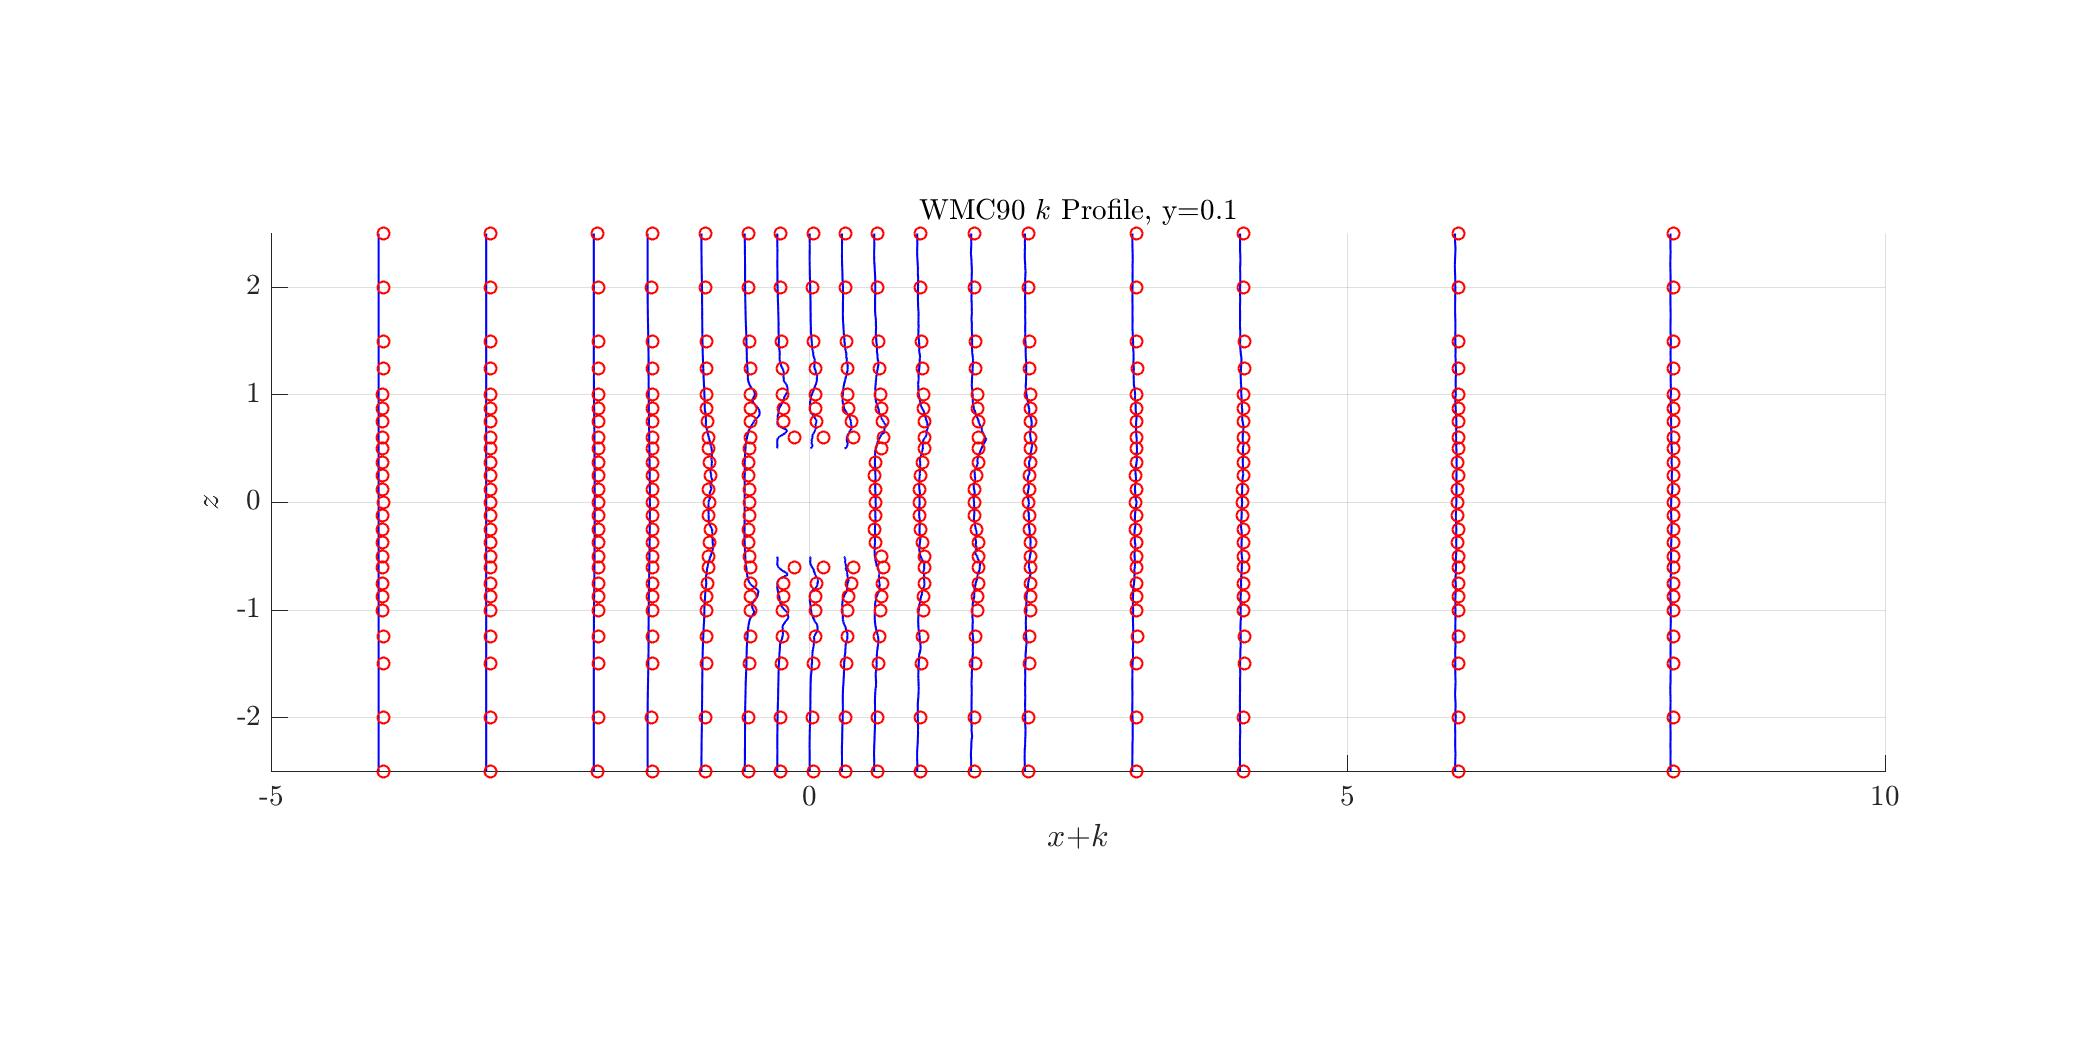
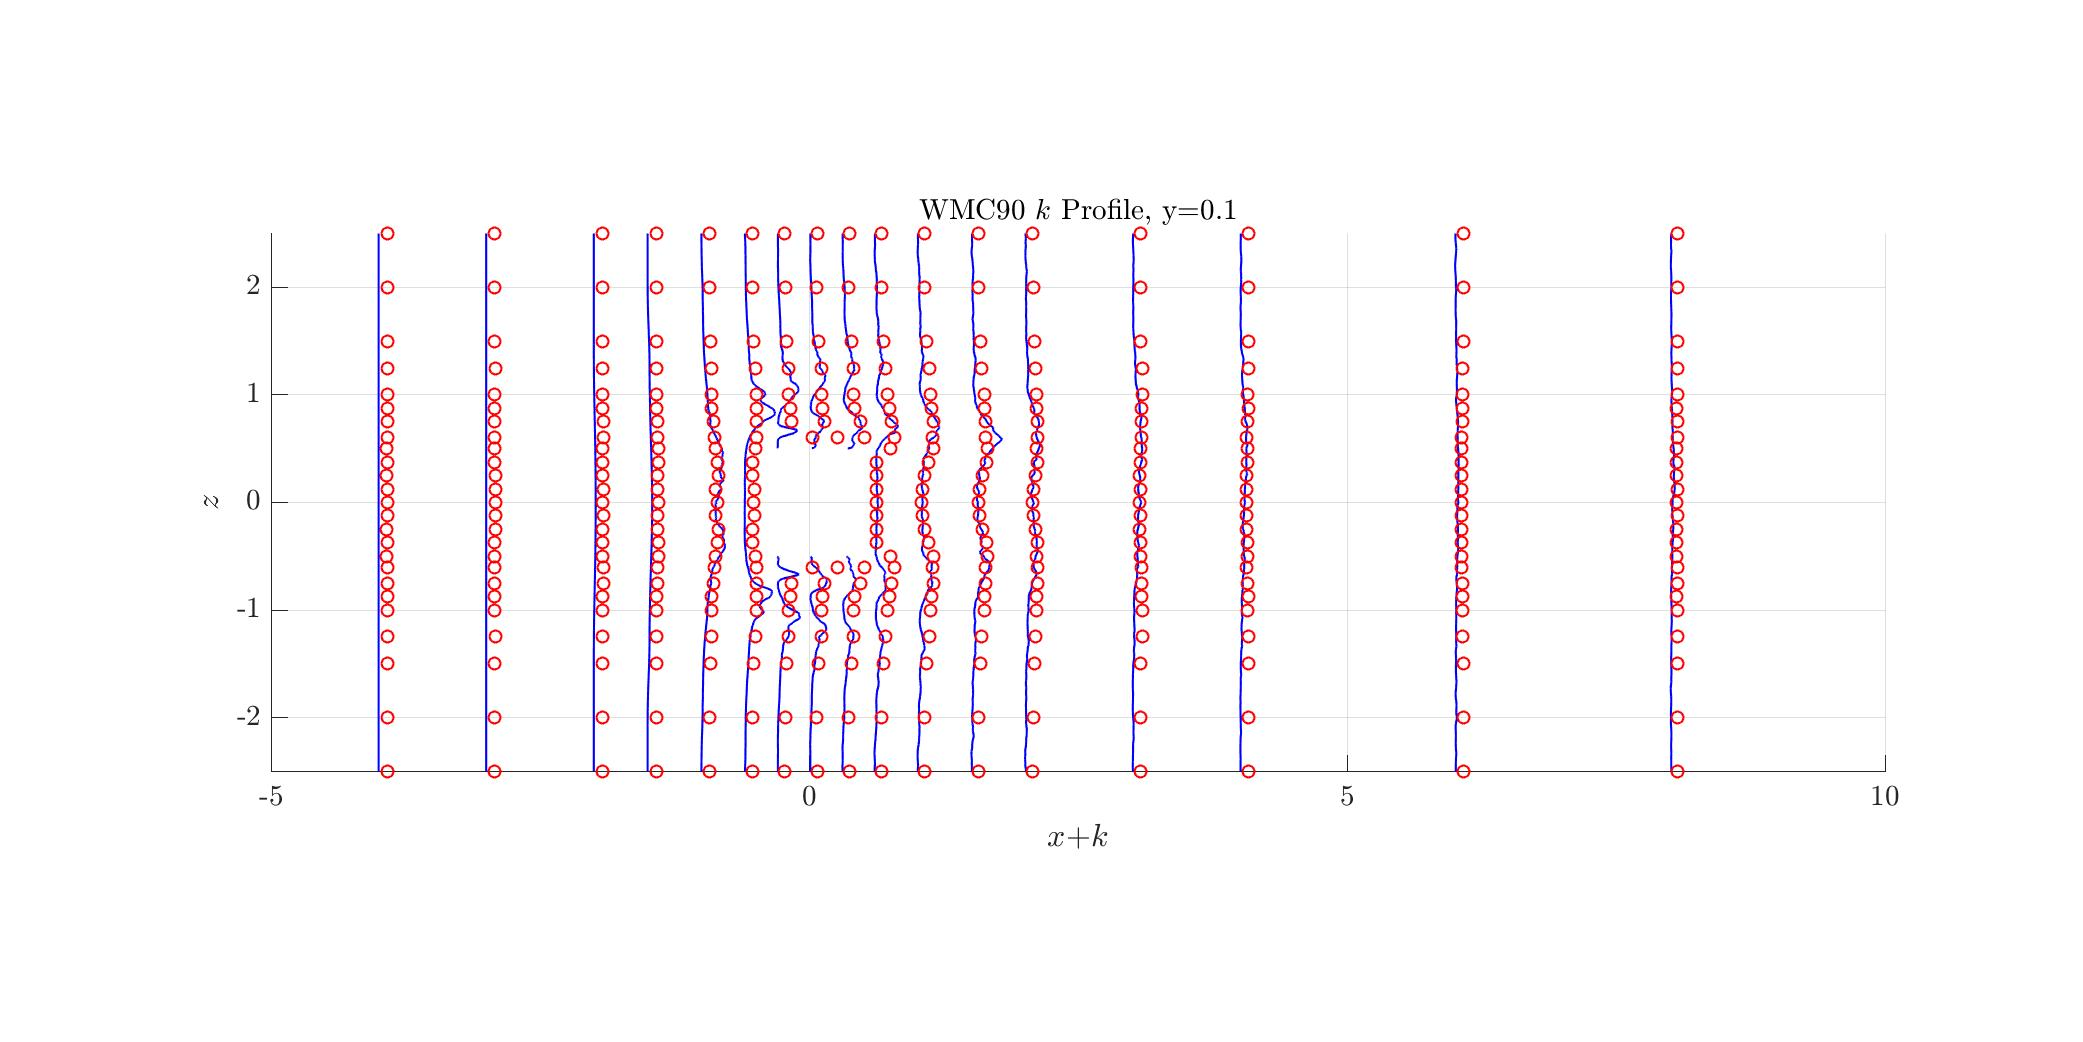
snyder setup done

diff --git a/mtlb/epa45.m b/mtlb/epa45.m
@@ -46,6 +46,10 @@ vN=U(:,2);
 wN=U(:,3);
 pN=U(:,4);
 
+uuN=tk(:,1);
+vvN=tk(:,2);
+wwN=tk(:,3);
+k1N=0.75*(uuN+vvN); % good proxy for TKE
 kN = 0.5 * sum(tk')';
 
 I1=         1:nx1*ny1*nz1 ; I1=reshape(I1,[nx1,ny1,nz1]);
@@ -78,31 +82,28 @@ xE1=M(:,1)*xfactor;
 zE1=M(:,2)*xfactor; % y -> z
 yE1=M(:,3)*xfactor; % z -> y
 uE1=M(:,4)*ufactor;
-upE1=M(:,5)*ufactor;
+uuE1=M(:,5)*ufactor;
 wE1=M(:,6)*ufactor;  % v -> w
-wpE1=M(:,7)*ufactor; % v -> w
-wE1=M(:,8)*ufactor;  % w -> v
-wpE1=M(:,9)*ufactor; % w -> v
+wwE1=M(:,7)*ufactor; % v -> w
+vE1=M(:,8)*ufactor;  % w -> v
+vvE1=M(:,9)*ufactor; % w -> v
+kE1=0.75*(uuE1.*uuE1+vvE1.*vvE1);
 
 [xE1,yE1,zE1] = insidecube(al,xE1,yE1,zE1);
 %----------
 % figs
 %----------
-profXY2(uN(I1),xN(I1),yN(I1),uE1,xE1,yE1,0.2,'u','$$v_x$$',al,xw,yw);
-%profXY2(kN(I1),xN(I1),yN(I1),[],[],[],1.0,'k','$$k$$',al,xw,yw);
+profXY2( uN(I1),xN(I1),yN(I1),uE1,xE1,yE1,0.5,'u','$$v_x$$',al,xw,yw);
+profXY2(k1N(I1),xN(I1),yN(I1),kE1,xE1,yE1,2.0,'k','$$k$$'  ,al,xw,yw);
+%
 %=======================================================
-% vertical centerline plane
+% horizontal ground plane
 %=======================================================
 
 %----------
-% geometry 
+% geometry  /todo
 %----------
-xmn=-5; xmx=9;
-zmn=-0; zmx=0;
-xw=linspace(xmn,xmx,1e3);
-zw=linspace(zmn,zmx,1e0);
-[xw,yw,zw]=ndgrid(xw,0,zw);
-[~,~,~,xw,yw,~] = cube(90,xw,yw,zw);
+%[~,~,~,xw,yw,~] = cube(90,xw,yw,zw);
 
 %----------
 % Snyder
@@ -116,14 +117,15 @@ M=readmatrix('~/Nek5000/run/wmc/mtlb/EPA_WindTunnel/EP3C13GF.xls');
 xE2=M(:,1)*xfactor;
 zE2=M(:,2)*xfactor; % y -> z
 uE2=M(:,3)*ufactor;
-upE2=M(:,4)*ufactor;
-vE2=M(:,7)*ufactor;  % w -> v
-vpE2=M(:,8)*ufactor; % w -> v
+uuE2=M(:,4)*ufactor;
+wE2=M(:,7)*ufactor;  % v -> w
+wwE2=M(:,8)*ufactor; % v -> w
+kE2=0.75*(uuE2.*uuE2+wwE2.*wwE2);
 
 yE2=xE2*0+0.1;
 [xE2,yE2,zE2] = insidecube(al,xE2,yE2,zE2);
 %----------
 % figs
 %----------
-profXZ2(uN(I2),xN(I2),zN(I2),uE2,xE2,zE2,0.2,'u','$$v_x$$',al,xw,yw,0.1);
-
+profXZ2(uN(I2) ,xN(I2),zN(I2),uE2,xE2,zE2,0.5,'u','$$v_x$$',al,xw,yw,0.1);
+profXZ2(k1N(I2),xN(I2),zN(I2),kE2,xE2,zE2,2.0,'k','$$k$$'  ,al,xw,yw,0.1);

diff --git a/mtlb/epa90.m b/mtlb/epa90.m
@@ -50,7 +50,6 @@ uuN=tk(:,1);
 vvN=tk(:,2);
 wwN=tk(:,3);
 k1N=0.75*(uuN+vvN); % good proxy for TKE
-
 kN = 0.5 * sum(tk')';
 
 I1=         1:nx1*ny1*nz1 ; I1=reshape(I1,[nx1,ny1,nz1]);
@@ -93,23 +92,17 @@ zE1=xE1*0;
 % figs
 %----------
 
-
-profXY2( uN(I1),xN(I1),yN(I1),uE1,xE1,yE1,0.2,'u','$$v_x$$',al,xw,yw);
-profXY2(k1N(I1),xN(I1),yN(I1),kE1,xE1,yE1,1.0,'k','$$k$$'  ,al,xw,yw);
+profXY2( uN(I1),xN(I1),yN(I1),uE1,xE1,yE1,0.5,'u','$$v_x$$',al,xw,yw);
+profXY2(k1N(I1),xN(I1),yN(I1),kE1,xE1,yE1,2.0,'k','$$k$$'  ,al,xw,yw);
 %
 %=======================================================
-% vertical centerline plane
+% horizontal ground plane
 %=======================================================
 
 %----------
-% geometry 
+% geometry  /todo
 %----------
-xmn=-5; xmx=9;
-zmn=-0; zmx=0;
-xw=linspace(xmn,xmx,1e3);
-zw=linspace(zmn,zmx,1e0);
-[xw,yw,zw]=ndgrid(xw,0,zw);
-[~,~,~,xw,yw,~] = cube(90,xw,yw,zw);
+%[~,~,~,xw,yw,~] = cube(90,xw,yw,zw);
 
 %----------
 % Snyder
@@ -126,13 +119,13 @@ uE2=M(:,3)*ufactor;
 uuE2=M(:,4)*ufactor;
 wE2=M(:,7)*ufactor;  % v -> w
 wwE2=M(:,8)*ufactor; % v -> w
-kE2 = 0.75*(uuE2.*uuE2+wwE2.*wwE2);
+kE2=0.75*(uuE2.*uuE2+wwE2.*wwE2);
 
 yE2=xE2*0+0.1;
 [xE2,yE2,zE2] = insidecube(al,xE2,yE2,zE2);
 %----------
 % figs
 %----------
-profXZ2( uN(I2),xN(I2),zN(I2),uE2,xE2,zE2,0.2,'u','$$v_x$$',al,xw,yw,0.1);
-profXZ2(k1N(I2),xN(I2),zN(I2),kE2,xE2,zE2,1.0,'k','$$k$$'  ,al,xw,yw,0.1);
+profXZ2( uN(I2),xN(I2),zN(I2),uE2,xE2,zE2,0.5,'u','$$v_x$$',al,xw,yw,0.1);
+profXZ2(k1N(I2),xN(I2),zN(I2),kE2,xE2,zE2,2.0,'k','$$k$$'  ,al,xw,yw,0.1);
 
